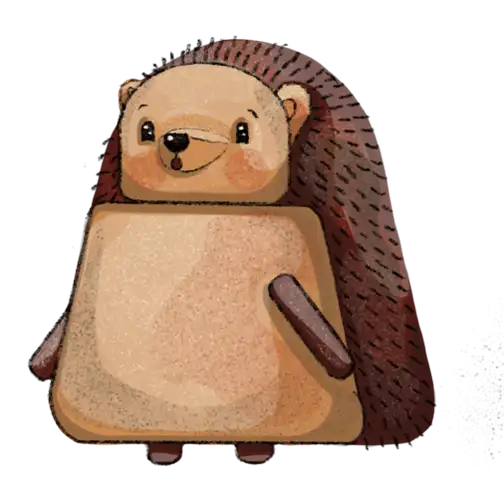
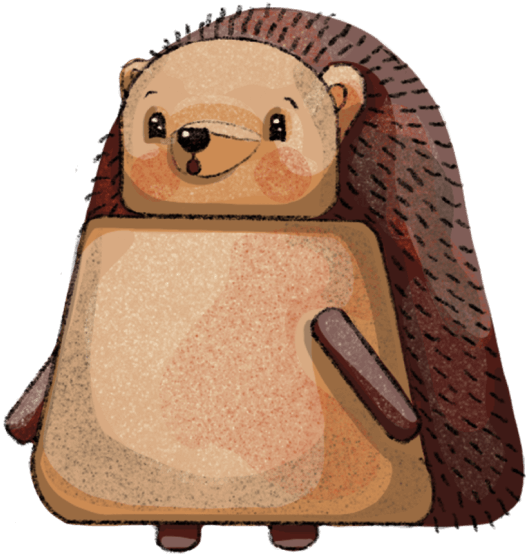
Update hog image in onboarding (#8531)
* update image

* fix padding

* Update to a 2x export to prevent scaling issues.

diff --git a/frontend/src/scenes/PreflightCheck/index.tsx b/frontend/src/scenes/PreflightCheck/index.tsx
@@ -2,7 +2,7 @@ import React from 'react'
 import { useValues, useActions } from 'kea'
 import { preflightLogic } from './logic'
 import { Row, Col, Card, Button, Steps } from 'antd'
-import suprisedHog from 'public/surprised-hog.png'
+import surprisedHog from 'public/surprised-hog.png'
 import posthogLogo from 'public/posthog-logo.png'
 import {
     CheckSquareFilled,
@@ -186,7 +186,7 @@ export function PreflightCheck(): JSX.Element {
             </Row>
             <Row style={{ display: 'flex', justifyContent: 'center' }}>
                 <div style={{ display: 'flex', alignItems: 'center', flexDirection: 'column' }}>
-                    <img src={suprisedHog} style={{ maxHeight: '100%', width: 320 }} />
+                    <img src={surprisedHog} style={{ maxHeight: '100%', width: 320, padding: '20px 30px' }} />
                     <p>Any questions?</p>
                     <Button type="default" data-attr="support" data-source="preflight">
                         <a href="https://posthog.com/support" target="_blank" rel="noreferrer">
